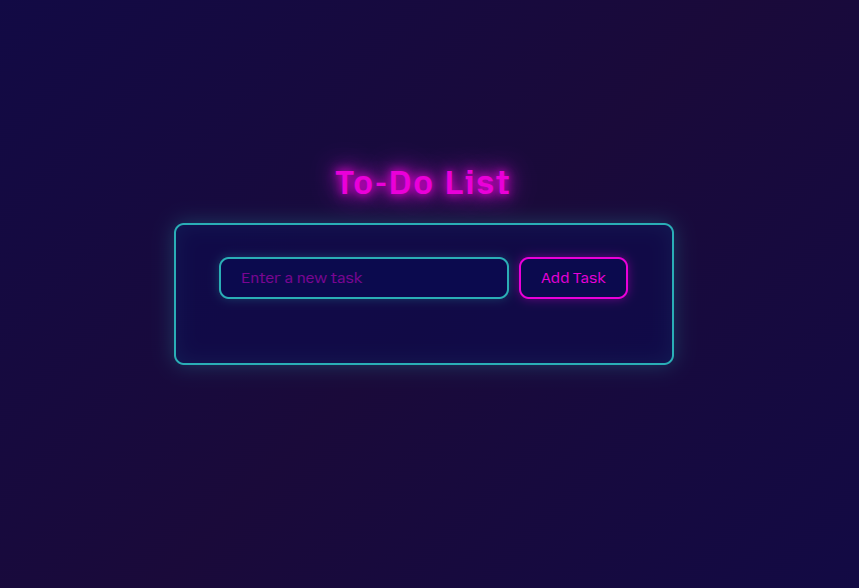
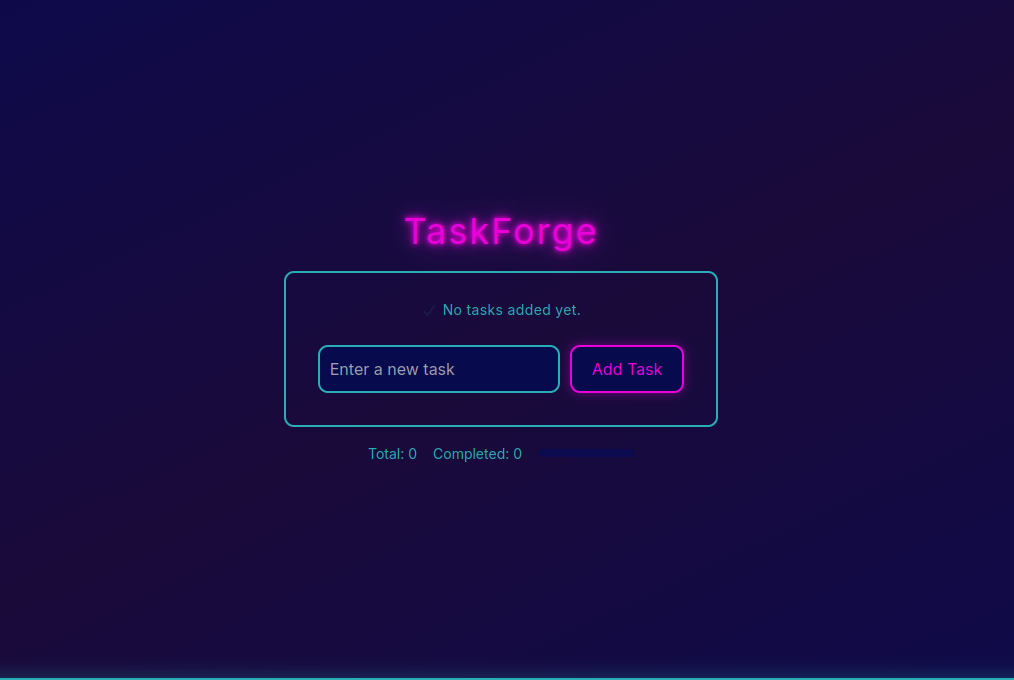
Minor Update
- updated the todo-list project link & name
- swapped the pictures on home & about page

Changed region(s): [[0.2119, 0.2755, 0.787, 0.6735], [0.0, 0.9796, 1.0, 1.0]]

diff --git a/project.html b/project.html
@@ -51,7 +51,7 @@
       <div class="project-grid">
         <div class="project-card">
           <img src="Images/to-do-list-app.png" alt="Picture of My To-Do List App" class="project-image" loading="lazy">
-          <h2>To-Do List App</h2>
+          <h2>TaskForge</h2>
           <p>A simple To-Do List App built that allows users to create, update, and delete tasks.</p>
           <p>Technologies: </p>
           <div style="margin-bottom: 15px;">
@@ -61,24 +61,8 @@
             <i class="devicon-javascript-plain colored" style="font-size: 2rem;"></i>
           </div>
           <div class="project-links">
-            <a href="https://kt-todo.vercel.app/" target="_blank" rel="noopener noreferrer" class="btn">Live Website</a>
+            <a href="https://kt-task-forge.vercel.app/" target="_blank" rel="noopener noreferrer" class="btn">Live Website</a>
             <a href="https://github.com/B0lt5/ToDo-List" target="_blank" rel="noopener noreferrer" class="btn">Source Code</a>
-          </div>
-        </div>
-
-        <div class="project-card">
-          <img src="Images/the-dev-anvil.webp" alt="Picture of The Dev Anvil" class="project-image" loading="lazy">
-          <h2>The Dev Anvil</h2>
-          <p>A platform for developers to showcase their projects and connect with others.</p>
-          <p><b>Status: Inactive</b></p>
-          <p>Technologies: </p>
-          <div style="margin-bottom: 15px;">
-            <i class="devicon-html5-plain colored" style="font-size: 2rem;"></i>
-            <i class="devicon-css3-plain colored" style="font-size: 2rem;"></i>
-          </div>
-          <div class="project-links">
-            <a href="https://the-dev-anvil.vercel.app" target="_blank" rel="noopener noreferrer" class="btn">Live Website</a>
-            <a href="https://github.com/B0lt5/the-dev-anvil" target="_blank" rel="noopener noreferrer" class="btn">Source Code</a>
           </div>
         </div>
 
@@ -139,6 +123,22 @@
           </div>
           <div class="project-links">
             <p><b>Status: Still in Development</b></p>
+          </div>
+        </div>
+
+        <div class="project-card">
+          <img src="Images/the-dev-anvil.webp" alt="Picture of The Dev Anvil" class="project-image" loading="lazy">
+          <h2>The Dev Anvil</h2>
+          <p>A platform for developers to showcase their projects and connect with others.</p>
+          <p>Technologies: </p>
+          <div style="margin-bottom: 15px;">
+            <i class="devicon-html5-plain colored" style="font-size: 2rem;"></i>
+            <i class="devicon-css3-plain colored" style="font-size: 2rem;"></i>
+          </div>
+          <div class="project-links">
+            <!-- <a href="https://the-dev-anvil.vercel.app" target="_blank" rel="noopener noreferrer" class="btn">Live Website</a>
+            <a href="https://github.com/B0lt5/the-dev-anvil" target="_blank" rel="noopener noreferrer" class="btn">Source Code</a> -->
+            <p><b>Status: Undergoing Redesign</b></p>
           </div>
         </div>
       </div>

diff --git a/css/home.css b/css/home.css
@@ -11,7 +11,7 @@
 
 .avatar {
   width: 600px;
-  height: 600px;
+  height: 800px;
   border-radius: 12px;
   border: 3px solid gold;
   margin-bottom: 20px;
